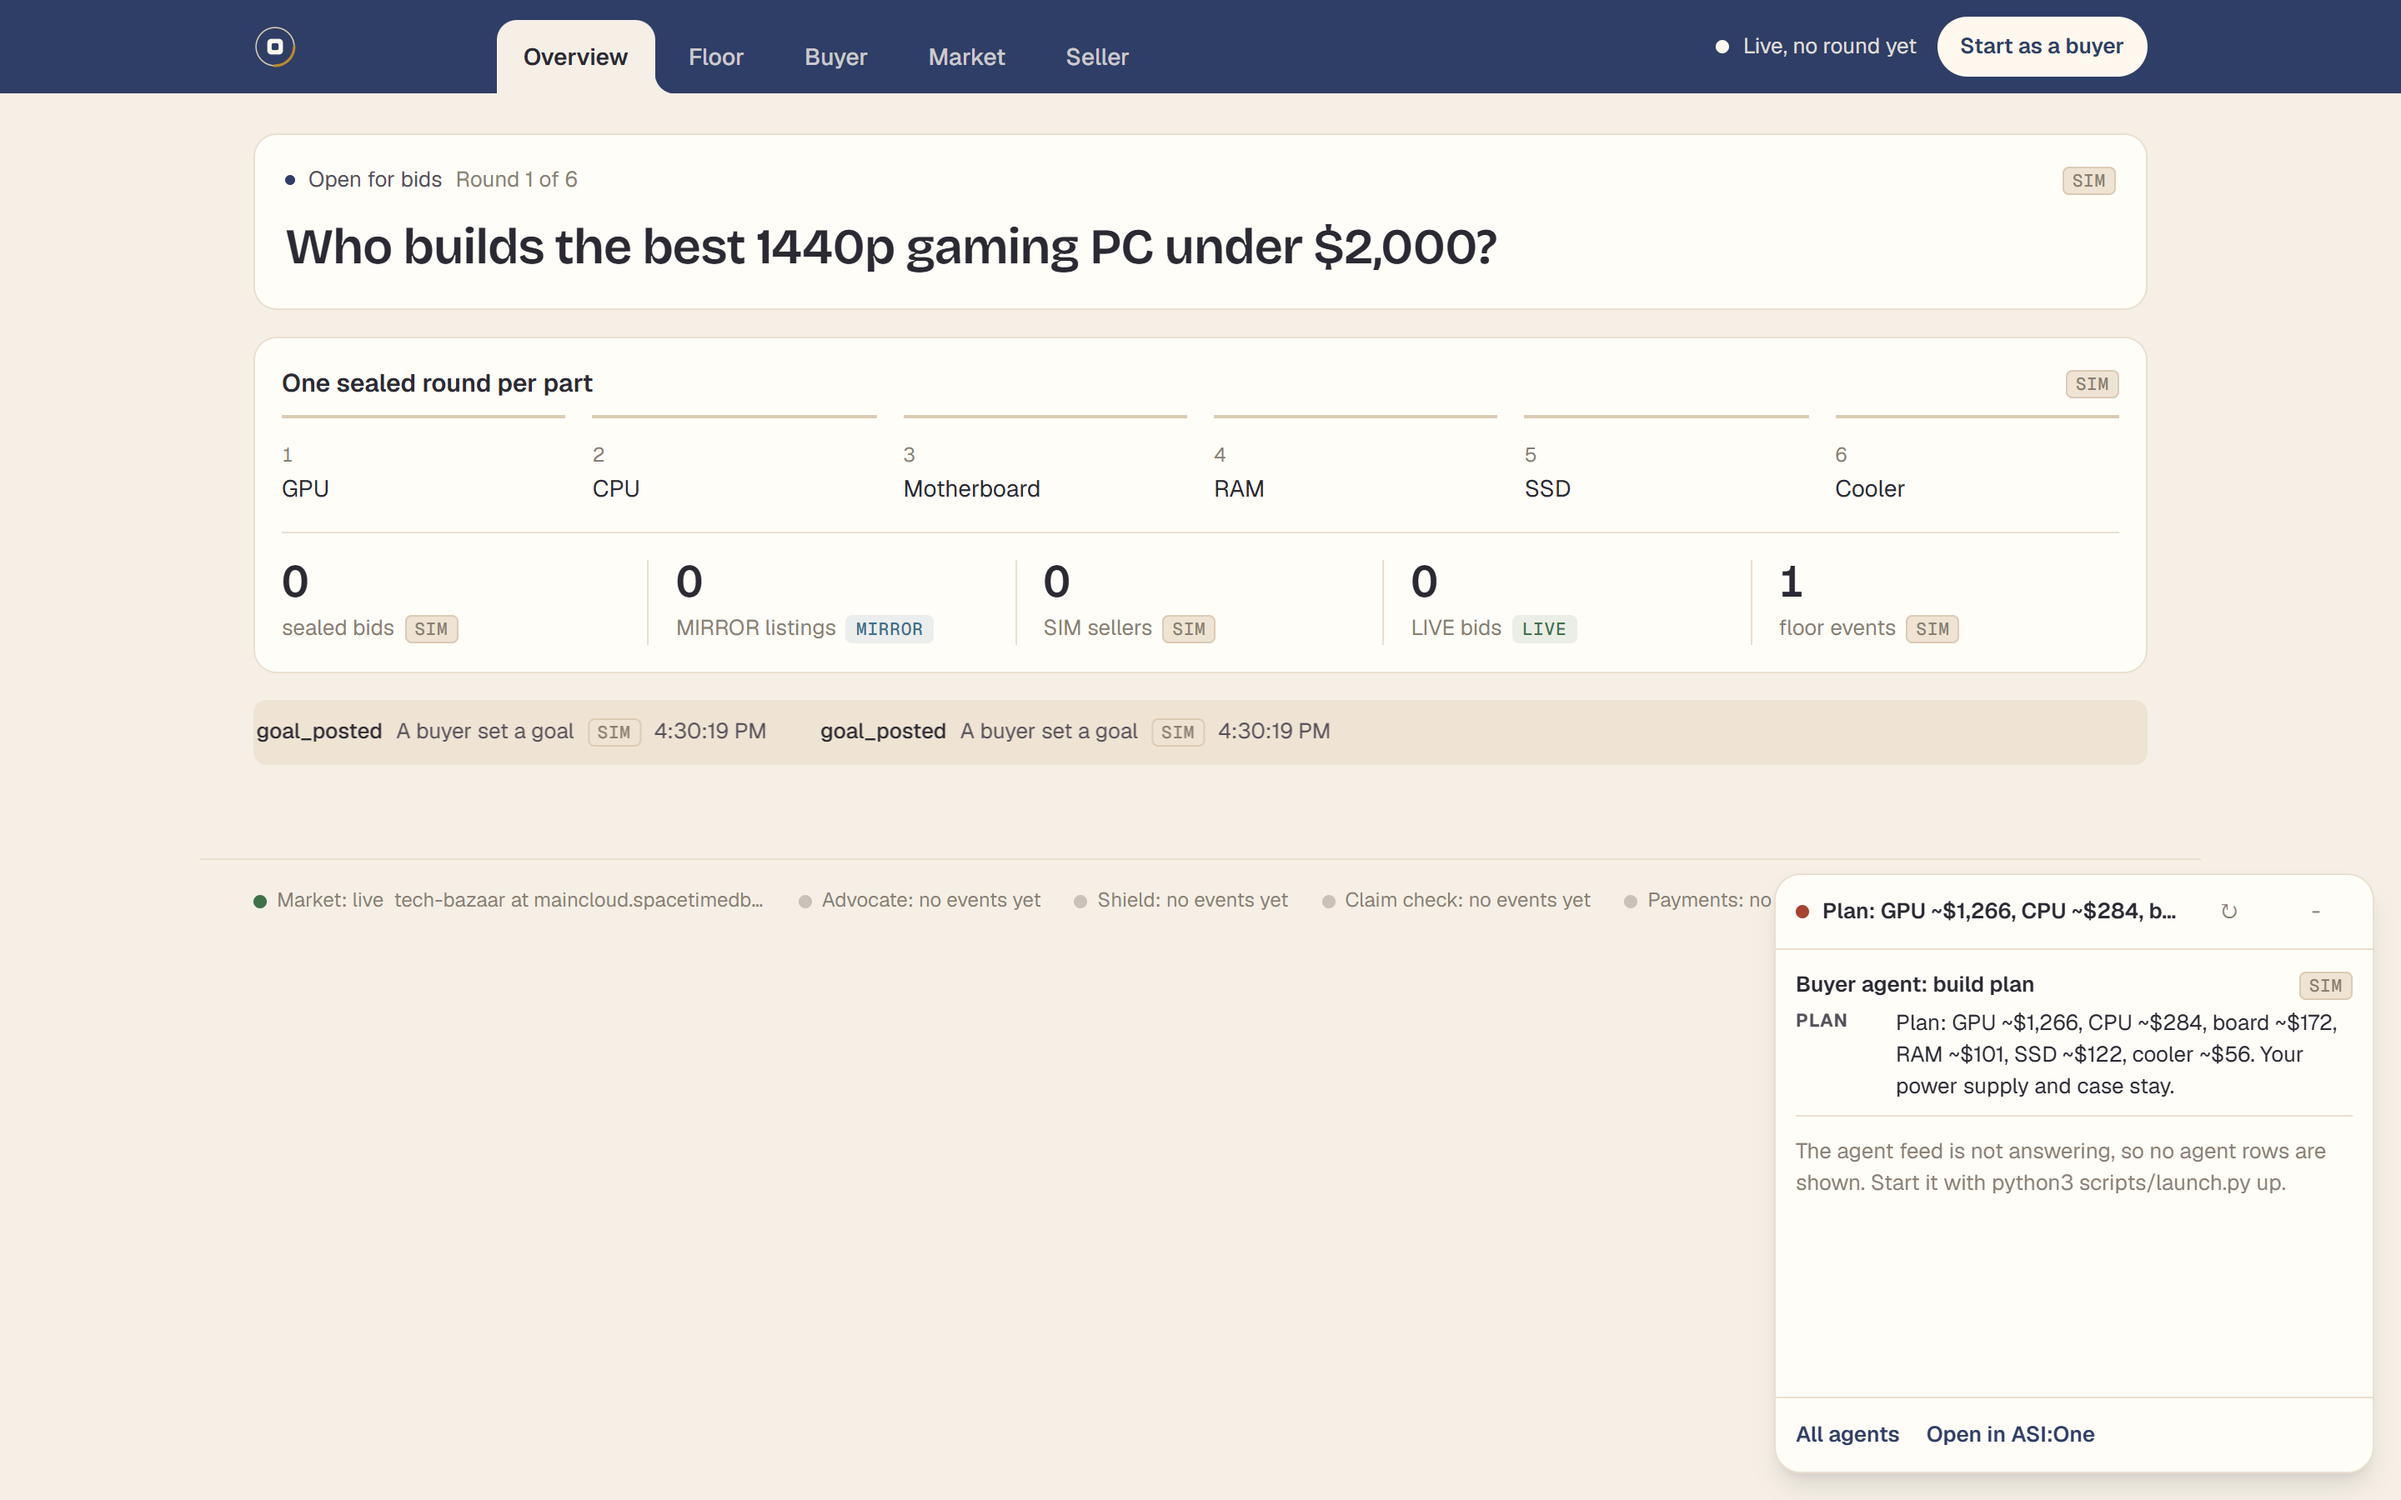
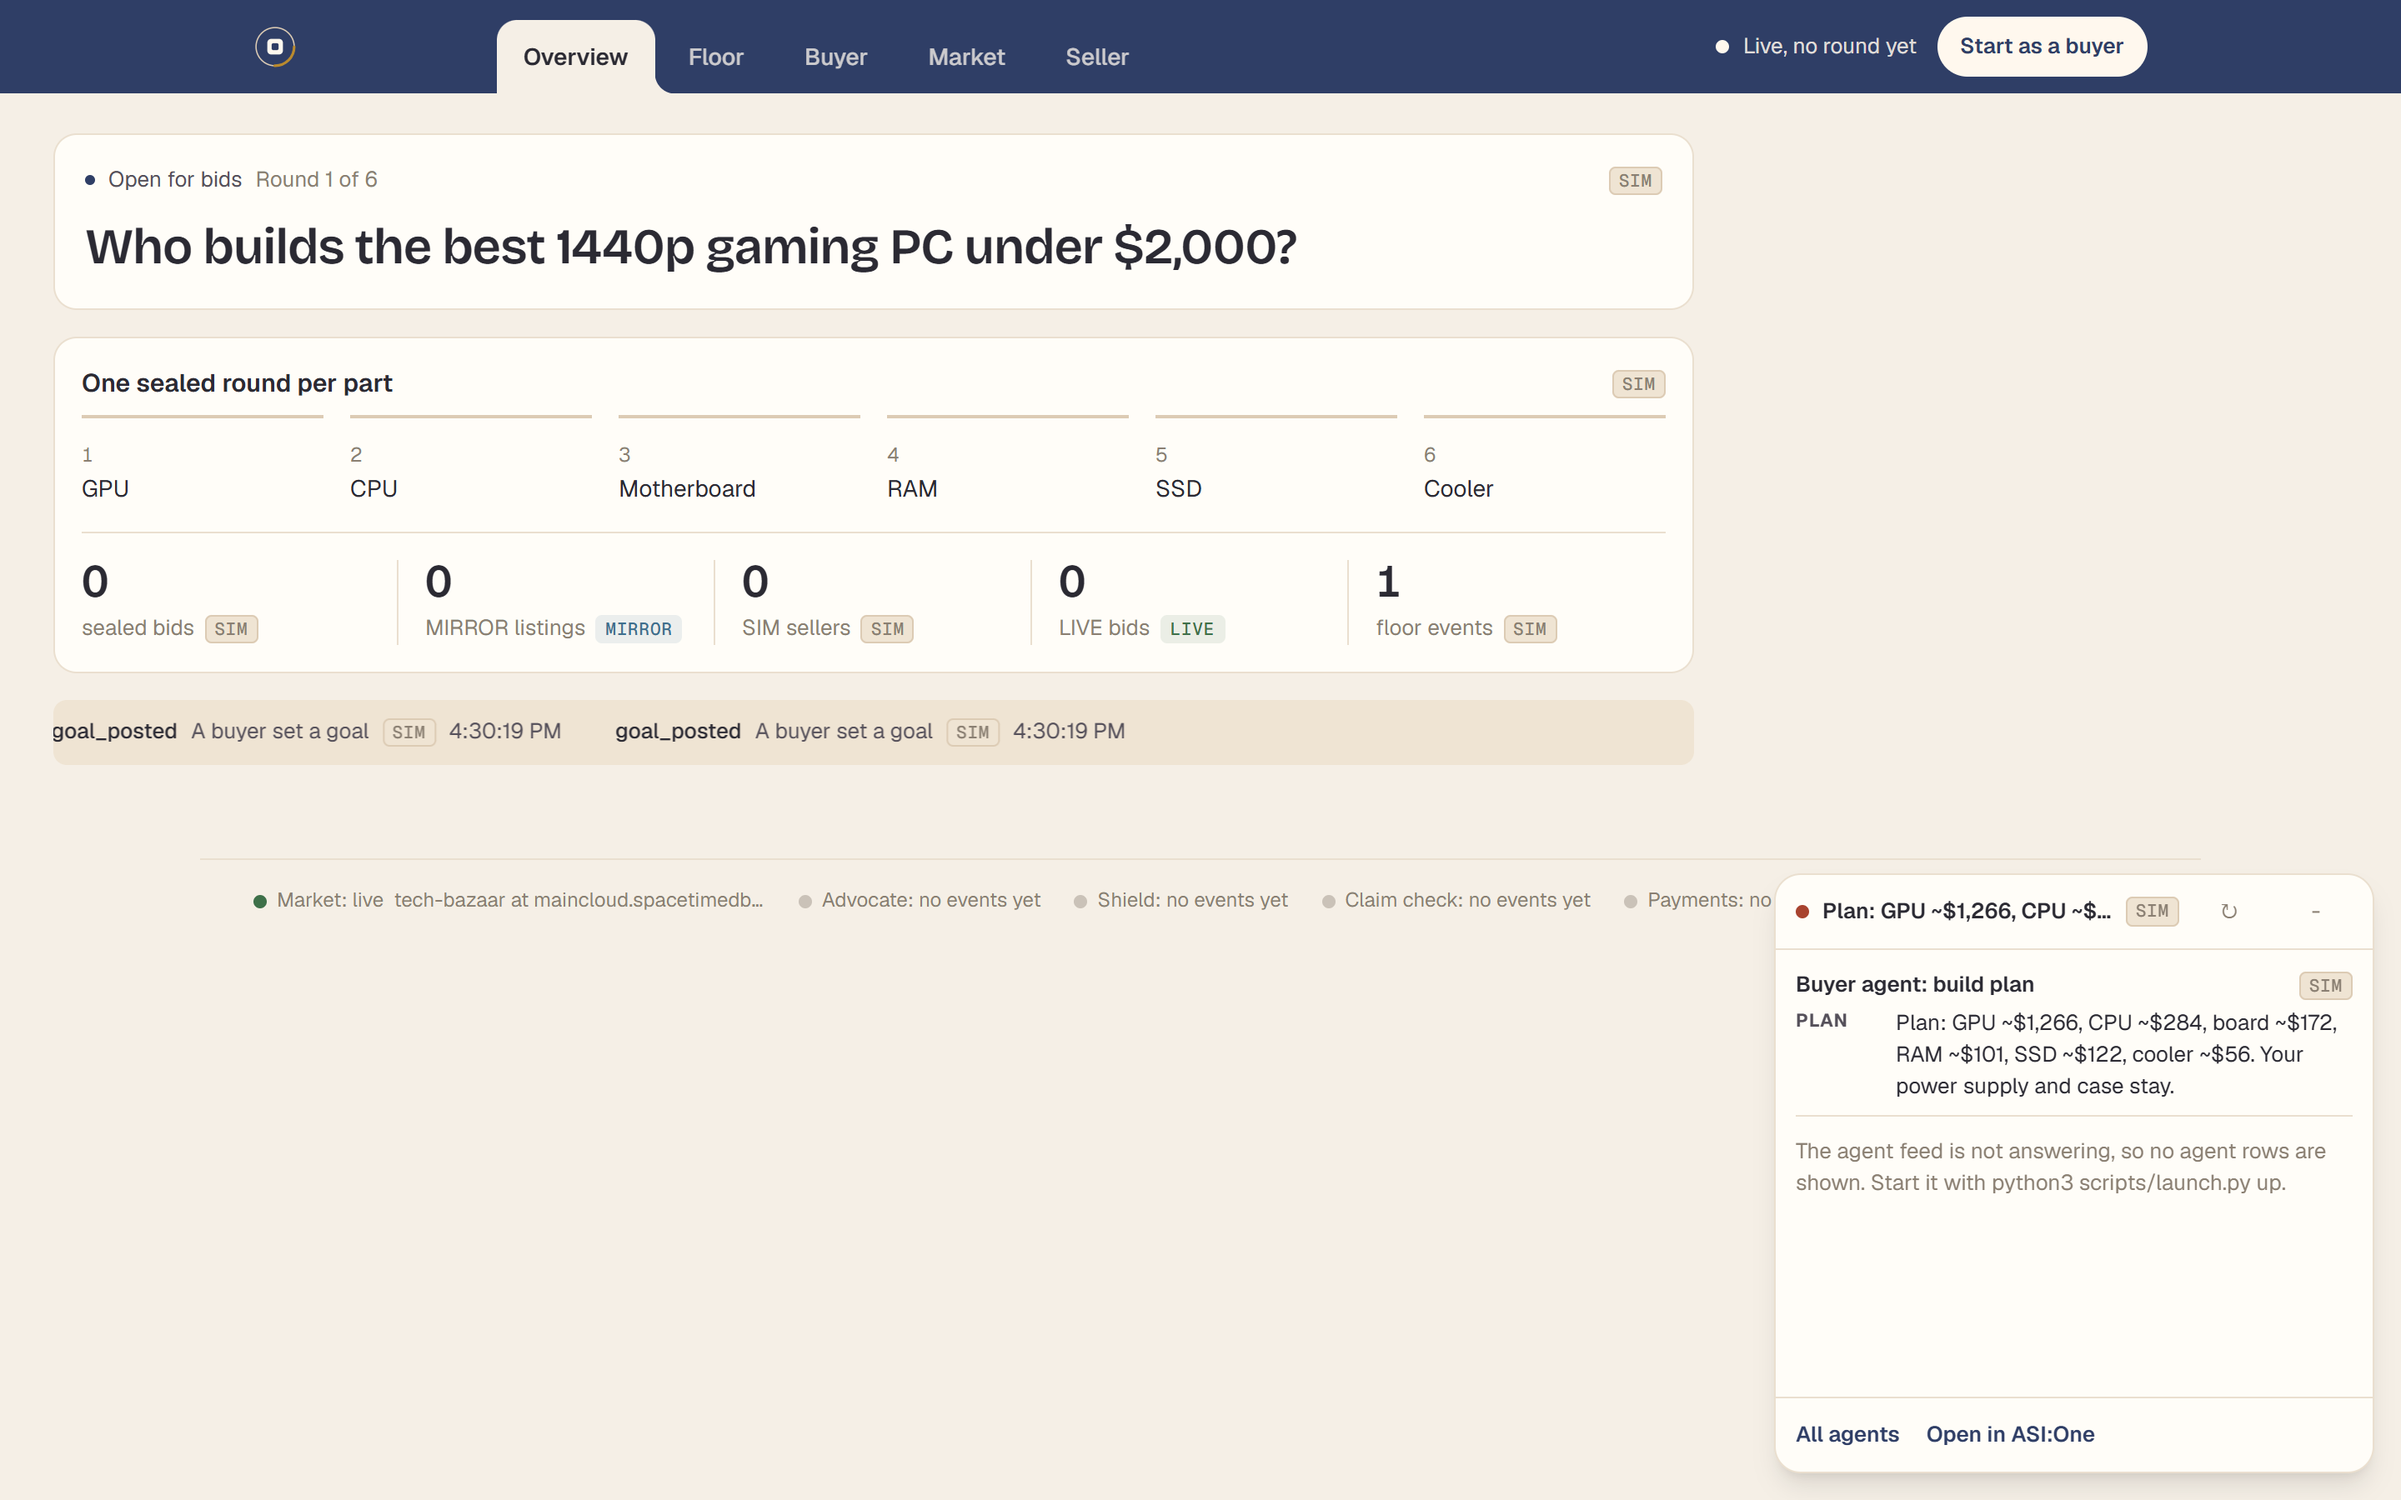
Wide screens keep a right column free for the Fetch tile, so it never covers content; proof shots for the tile and for tab reach at 390

diff --git a/web/src/app/layout.tsx b/web/src/app/layout.tsx
@@ -21,7 +21,8 @@ export default function RootLayout({ children }: Readonly<{ children: React.Reac
       <body className="min-h-full bg-canvas text-ink">
         <Providers>
           <TopNav />
-          <main className="mx-auto w-full max-w-[1200px] px-4 py-5 lg:px-8 lg:py-6">{children}</main>
+          {/* xl and up: a 392 px column on the right is kept free for the floating Fetch tile (360 px + 16 px gutter), so it never covers content. */}
+          <div className="xl:pr-[392px]"><main className="mx-auto w-full max-w-[1200px] px-4 py-5 lg:px-8 lg:py-6">{children}</main></div>
           <RunModeFooter />
           <PwaRegister />
         </Providers>
